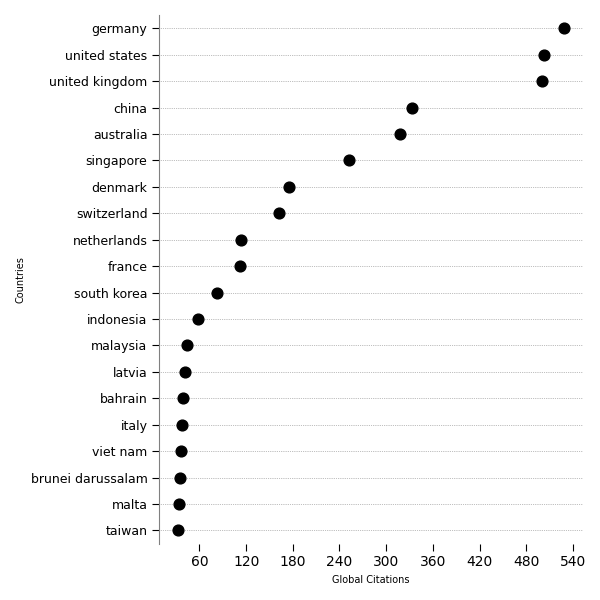
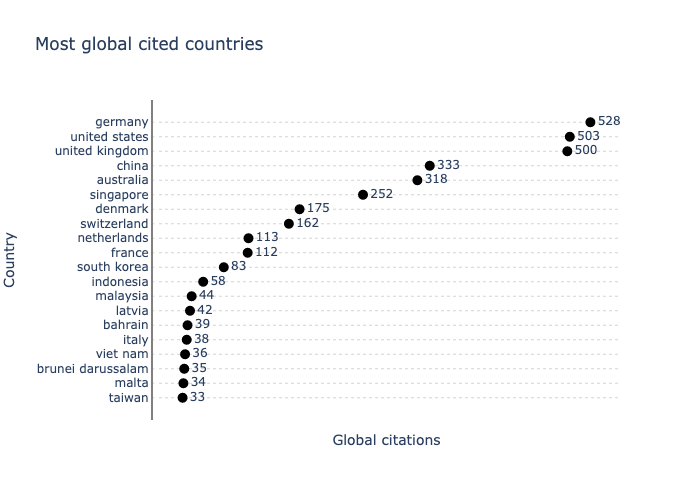
update

diff --git a/techminer2/most_relevant_authors.py b/techminer2/most_relevant_authors.py
@@ -1,44 +1,72 @@
 """
-Most Relevant Authors
+Most Relevant Authors (*)
 ===============================================================================
 
 >>> from techminer2 import *
 >>> directory = "data/"
 >>> file_name = "sphinx/images/most_relevant_authors.png"
->>> most_relevant_authors(directory=directory).savefig(file_name)
+>>> most_relevant_authors(
+...     top_n=20,
+...     directory=directory,
+... ).write_image(file_name)
 
 .. image:: images/most_relevant_authors.png
     :width: 700px
     :align: center
 
 
->>> most_relevant_authors(directory=directory, plot=False).head()
-authors
-Wojcik D       5
-Hornuf L       3
-Rabbani MR     3
-Gomber P       2
-Kauffman RJ    2
-Name: num_documents, dtype: int64
-
-
-
 """
-from .cleveland_chart import cleveland_chart
+
+import plotly.express as px
+
+from .column_indicators import column_indicators
 
 
-def most_relevant_authors(
-    top_n=20,
-    color="k",
-    figsize=(6, 6),
-    directory="./",
-    plot=True,
-):
-    return cleveland_chart(
-        column="authors",
-        top_n=top_n,
-        color=color,
-        figsize=figsize,
-        directory=directory,
-        plot=plot,
+def most_relevant_authors(directory="./", top_n=20):
+
+    indicators = column_indicators(column="authors", directory=directory)
+    indicators = indicators.sort_values(
+        by=["num_documents", "global_citations", "local_citations"], ascending=False
     )
+    indicators = indicators.head(top_n)
+
+    fig = px.scatter(
+        x=indicators.num_documents,
+        y=indicators.index,
+        title="Most relevant authors",
+        text=indicators.num_documents,
+        labels={"x": "Num Documents", "y": "Author Name"},
+    )
+    fig.update_traces(marker=dict(size=10, color="black"))
+    fig.update_traces(textposition="middle right")
+    fig.update_traces(line=dict(color="black"))
+    fig.update_layout(paper_bgcolor="white", plot_bgcolor="white")
+    fig.update_yaxes(
+        linecolor="gray",
+        linewidth=2,
+        gridcolor="lightgray",
+        autorange="reversed",
+        griddash="dot",
+    )
+
+    return fig
+
+
+# from .cleveland_chart import cleveland_chart
+
+
+# def most_relevant_authors(
+#     top_n=20,
+#     color="k",
+#     figsize=(6, 6),
+#     directory="./",
+#     plot=True,
+# ):
+#     return cleveland_chart(
+#         column="authors",
+#         top_n=top_n,
+#         color=color,
+#         figsize=figsize,
+#         directory=directory,
+#         plot=plot,
+#     )

diff --git a/techminer2/most_relevant_institutions.py b/techminer2/most_relevant_institutions.py
@@ -1,44 +1,53 @@
 """
-Most Relevant Institutions
+Most Relevant Institutions (*)
 ===============================================================================
 
 >>> from techminer2 import *
 >>> directory = "data/"
 >>> file_name = "sphinx/images/most_relevant_institutions.png"
->>> most_relevant_institutions(directory=directory).savefig(file_name)
+>>> most_relevant_institutions(
+...     top_n=20,
+...     directory=directory,
+... ).write_image(file_name)
 
 .. image:: images/most_relevant_institutions.png
     :width: 700px
     :align: center
 
 
->>> most_relevant_institutions(directory=directory, plot=False).head()
-institutions
-Bina Nusantara University IDN          6
-Singapore Management University SGP    5
-University of Sydney AUS               5
-University of Latvia LVA               4
-University of Pavia ITA                4
-Name: num_documents, dtype: int64
 
 
 """
-from .cleveland_chart import cleveland_chart
+import plotly.express as px
+
+from .column_indicators import column_indicators
 
 
-def most_relevant_institutions(
-    top_n=20,
-    color="k",
-    figsize=(6, 6),
-    directory="./",
-    plot=True,
-):
+def most_relevant_institutions(directory="./", top_n=20):
 
-    return cleveland_chart(
-        column="institutions",
-        top_n=top_n,
-        color=color,
-        figsize=figsize,
-        directory=directory,
-        plot=plot,
+    indicators = column_indicators(column="institutions", directory=directory)
+    indicators = indicators.sort_values(
+        by=["num_documents", "global_citations", "local_citations"], ascending=False
     )
+    indicators = indicators.head(top_n)
+
+    fig = px.scatter(
+        x=indicators.num_documents,
+        y=indicators.index,
+        title="Most relevant institutions",
+        text=indicators.num_documents,
+        labels={"x": "Num Documents", "y": "Institution Name"},
+    )
+    fig.update_traces(marker=dict(size=10, color="black"))
+    fig.update_traces(textposition="middle right")
+    fig.update_traces(line=dict(color="black"))
+    fig.update_layout(paper_bgcolor="white", plot_bgcolor="white")
+    fig.update_yaxes(
+        linecolor="gray",
+        linewidth=2,
+        gridcolor="lightgray",
+        autorange="reversed",
+        griddash="dot",
+    )
+
+    return fig

diff --git a/techminer2/most_global_cited_countries.py b/techminer2/most_global_cited_countries.py
@@ -1,39 +1,51 @@
 """
-Most Global Cited Countries
+Most Global Cited Countries (*)
 ===============================================================================
 
 >>> from techminer2 import *
 >>> directory = "data/"
 >>> file_name = "sphinx/images/most_global_cited_countries.png"
->>> most_global_cited_countries(directory=directory).savefig(file_name)
+>>> most_global_cited_countries(
+...     top_n=20,
+...     directory=directory,
+... ).write_image(file_name)
 
 .. image:: images/most_global_cited_countries.png
     :width: 700px
     :align: center
 
-
-
-
 """
-from .cleveland_chart import cleveland_chart
+
+import plotly.express as px
+
+from .column_indicators import column_indicators
 
 
-def most_global_cited_countries(
-    top_n=20,
-    color="k",
-    figsize=(6, 6),
-    directory="./",
-):
-    return cleveland_chart(
-        column="countries",
-        metric="global_citations",
-        top_n=top_n,
-        min_occ=1,
-        max_occ=None,
-        sort_values=None,
-        sort_index=None,
-        directory=directory,
-        #
-        color=color,
-        figsize=figsize,
+def most_global_cited_countries(directory="./", top_n=20):
+
+    indicators = column_indicators(column="countries", directory=directory)
+    indicators = indicators.sort_values(
+        by=["global_citations", "num_documents", "local_citations"], ascending=False
     )
+    indicators = indicators.head(top_n)
+
+    fig = px.scatter(
+        x=indicators.global_citations,
+        y=indicators.index,
+        title="Most global cited countries",
+        text=indicators.global_citations,
+        labels={"x": "Global citations", "y": "Country"},
+    )
+    fig.update_traces(marker=dict(size=10, color="black"))
+    fig.update_traces(textposition="middle right")
+    fig.update_traces(line=dict(color="black"))
+    fig.update_layout(paper_bgcolor="white", plot_bgcolor="white")
+    fig.update_yaxes(
+        linecolor="gray",
+        linewidth=2,
+        gridcolor="lightgray",
+        autorange="reversed",
+        griddash="dot",
+    )
+    fig.update_xaxes(showticklabels=False)
+    return fig
